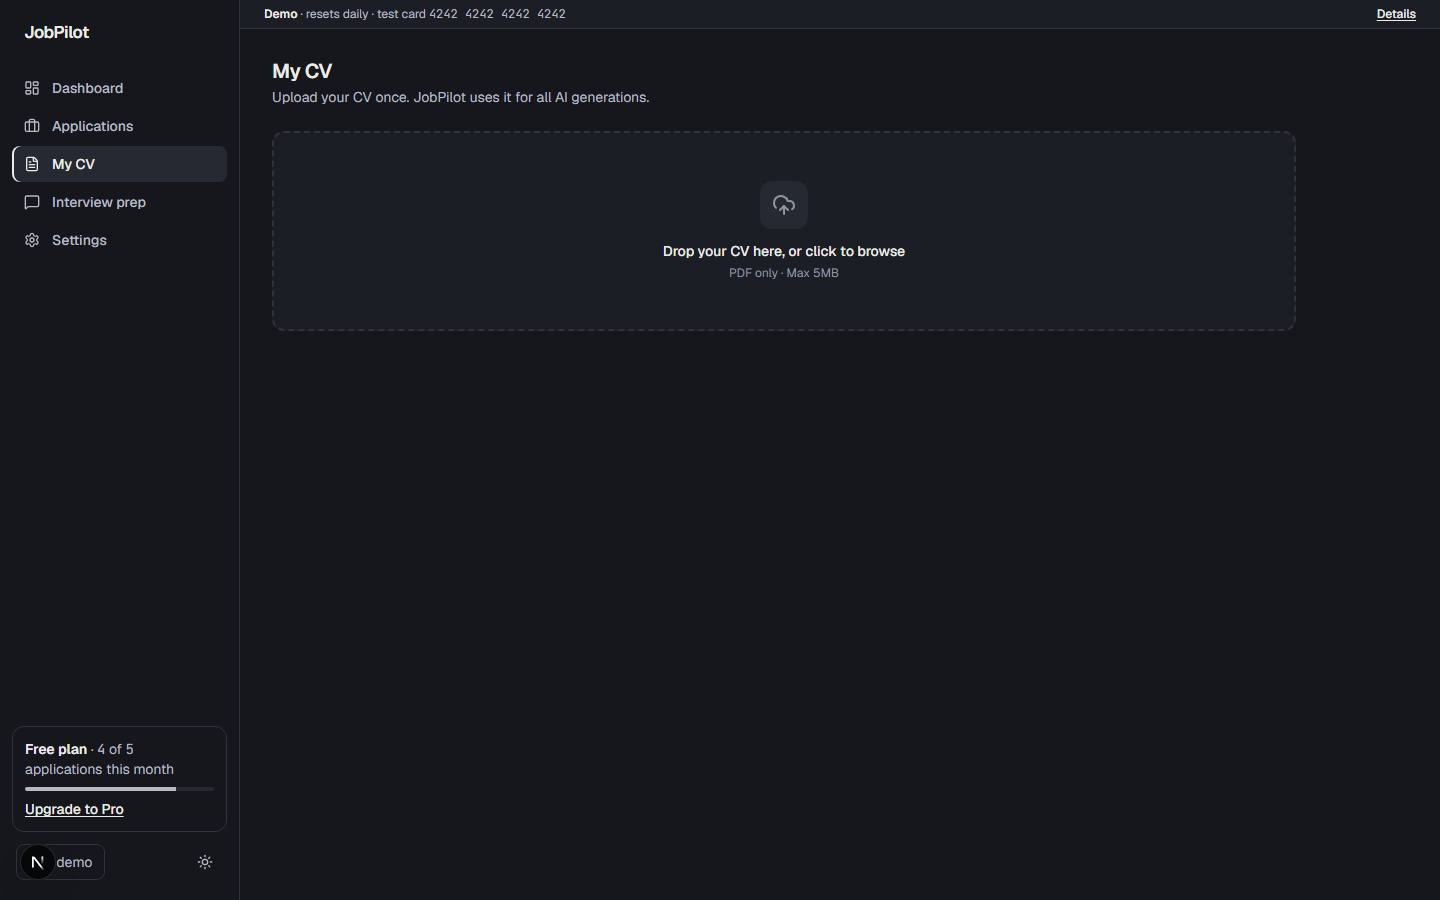
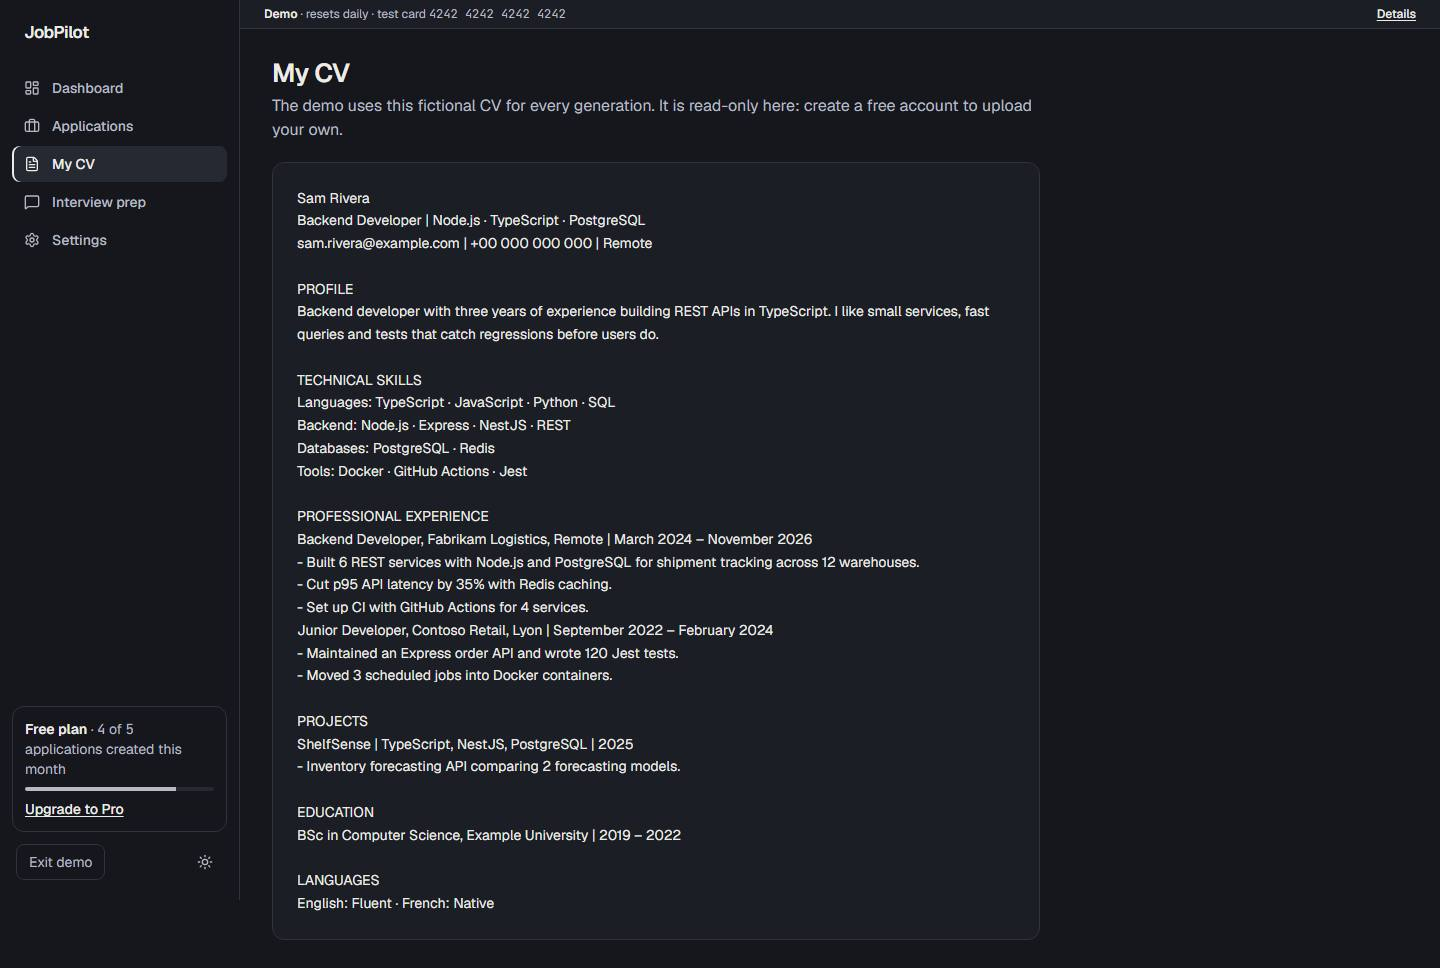
feat(design): My CV
In the demo, My CV shows the fictional CV read-only (GET /api/cv returns
demo: true, the text and no file) instead of an upload zone that the API
refuses. Neutral PDF/text toggle, loader and progress bar; page title on the
new type scale.

diff --git a/src/app/(app)/my-cv/page.tsx b/src/app/(app)/my-cv/page.tsx
@@ -35,6 +35,8 @@ export default function MyCvPage() {
   const [cvData, setCvData] = useState<CvData | null>(null)
   const [loadingCv, setLoadingCv] = useState(true)
   const [showUploadZone, setShowUploadZone] = useState(false)
+  // Demo workspace: the fictional CV, read-only (no upload, no file).
+  const [demoCvText, setDemoCvText] = useState<string | null>(null)
 
   useEffect(() => {
     fetch('/api/cv')
@@ -43,6 +45,7 @@ export default function MyCvPage() {
           r.json() as Promise<{
             data?: {
               hasCv: boolean
+              demo?: boolean
               fileUrl: string | null
               cvText: string | null
               cvTextPreview: string | null
@@ -51,6 +54,10 @@ export default function MyCvPage() {
           }>
       )
       .then(j => {
+        if (j.data?.demo) {
+          setDemoCvText(j.data.cvText ?? '')
+          return
+        }
         if (j.data?.hasCv && j.data.fileUrl) {
           setCvData({
             fileUrl: j.data.fileUrl,
@@ -77,10 +84,12 @@ export default function MyCvPage() {
     )
   }
 
+  if (demoCvText !== null) return <DemoCvView text={demoCvText} />
+
   return (
     <div className="max-w-5xl space-y-6">
       <div>
-        <h1 className="text-xl font-semibold text-[hsl(var(--text-primary))]">My CV</h1>
+        <h1 className="text-[26px] font-semibold leading-tight tracking-tight text-[hsl(var(--text-primary))]">My CV</h1>
         <p className="text-sm text-[hsl(var(--text-secondary))] mt-0.5">
           Upload your CV once. JobPilot uses it for all AI generations.
         </p>
@@ -97,6 +106,27 @@ export default function MyCvPage() {
           onCancel={cvData ? () => setShowUploadZone(false) : undefined}
         />
       )}
+    </div>
+  )
+}
+
+// ── Demo CV (read-only) ──────────────────────────────────────────────────────
+
+function DemoCvView({ text }: { text: string }) {
+  return (
+    <div className="max-w-3xl space-y-5">
+      <div>
+        <h1 className="text-[26px] font-semibold leading-tight tracking-tight text-[hsl(var(--text-primary))]">My CV</h1>
+        <p className="mt-1 text-[hsl(var(--text-secondary))]">
+          The demo uses this fictional CV for every generation. It is read-only here: create a free account to upload your own.
+        </p>
+      </div>
+      <article
+        aria-label="Fictional CV of the demo"
+        className="rounded-xl border border-[hsl(var(--border-default))] bg-[hsl(var(--bg-surface))] p-5 md:p-6"
+      >
+        <pre className="whitespace-pre-wrap font-sans text-sm leading-relaxed text-[hsl(var(--text-primary))] [overflow-wrap:anywhere]">{text}</pre>
+      </article>
     </div>
   )
 }
@@ -188,7 +218,7 @@ function ExistingCvView({
               onClick={() => setActiveTab('pdf')}
               className={`flex items-center gap-1.5 px-3 py-1 rounded-md font-medium transition-colors cursor-pointer ${
                 activeTab === 'pdf'
-                  ? 'bg-amber-500 text-black font-semibold shadow-xs'
+                  ? 'bg-[hsl(var(--bg-surface-raised))] text-[hsl(var(--text-primary))] font-semibold'
                   : 'text-[hsl(var(--text-muted))] hover:text-[hsl(var(--text-primary))]'
               }`}
             >
@@ -200,7 +230,7 @@ function ExistingCvView({
               onClick={() => setActiveTab('text')}
               className={`flex items-center gap-1.5 px-3 py-1 rounded-md font-medium transition-colors cursor-pointer ${
                 activeTab === 'text'
-                  ? 'bg-amber-500 text-black font-semibold shadow-xs'
+                  ? 'bg-[hsl(var(--bg-surface-raised))] text-[hsl(var(--text-primary))] font-semibold'
                   : 'text-[hsl(var(--text-muted))] hover:text-[hsl(var(--text-primary))]'
               }`}
             >
@@ -330,7 +360,7 @@ function UploadZone({ onUploaded, onCancel }: { onUploaded: (data: CvData) => vo
         className={`
           relative rounded-xl border-2 border-dashed p-12 flex flex-col items-center gap-3 transition-colors
           ${dragOver
-            ? 'border-amber-500 bg-[hsl(var(--accent-light))]'
+            ? 'border-[hsl(var(--accent-primary))] bg-[hsl(var(--accent-light))]'
             : 'border-[hsl(var(--border-default))] bg-[hsl(var(--bg-surface))] hover:border-[hsl(var(--border-strong))] hover:bg-[hsl(var(--bg-surface-raised))]'
           }
           ${uploading ? 'cursor-wait' : 'cursor-pointer'}
@@ -347,11 +377,11 @@ function UploadZone({ onUploaded, onCancel }: { onUploaded: (data: CvData) => vo
 
         {uploading ? (
           <>
-            <Loader2 className="h-8 w-8 animate-spin text-amber-500" />
+            <Loader2 className="h-8 w-8 animate-spin text-[hsl(var(--text-secondary))]" />
             <p className="text-sm text-[hsl(var(--text-secondary))]">Uploading and extracting text…</p>
             <div className="w-48 h-1.5 rounded-full bg-[hsl(var(--bg-surface-raised))] overflow-hidden">
               <div
-                className="h-full bg-amber-500 rounded-full transition-all duration-300"
+                className="h-full bg-[hsl(var(--text-secondary))] rounded-full transition-all duration-300"
                 style={{ width: `${progress}%` }}
               />
             </div>

diff --git a/src/app/api/cv/route.ts b/src/app/api/cv/route.ts
@@ -15,11 +15,14 @@ export async function GET() {
     select: { cvPath: true, cvText: true, updatedAt: true },
   })
 
-  const hasCv = !!user?.cvPath
+  // A demo has a fictional CV text and no file: read-only, nothing to download.
+  const demo = actor?.kind === 'demo'
+  const hasFile = !!user?.cvPath
   return NextResponse.json({
     data: {
-      hasCv,
-      fileUrl: hasCv ? CV_FILE_ROUTE : null,
+      hasCv: hasFile || (demo && !!user?.cvText),
+      demo,
+      fileUrl: hasFile ? CV_FILE_ROUTE : null,
       cvText: user?.cvText ?? null,
       cvTextPreview: user?.cvText ? user.cvText.slice(0, 500) : null,
       updatedAt: user?.updatedAt ?? null,

diff --git a/test/api/demo-isolation.int.test.ts b/test/api/demo-isolation.int.test.ts
@@ -91,6 +91,11 @@ describe('a demo visitor only reaches its own data', () => {
     expect((await dashboard.GET()).status).toBe(200)
   })
 
+  it('its fictional CV is there, read-only: text but no file', async () => {
+    const json = await readJson<{ data: { hasCv: boolean; demo: boolean; fileUrl: string | null; cvText: string } }>(await cv.GET())
+    expect(json.data).toEqual(expect.objectContaining({ hasCv: true, demo: true, fileUrl: null, cvText: SAMPLE_CV }))
+  })
+
   it('cannot upload a CV (403), and has no CV file (404)', async () => {
     const res = await cvUpload.POST(formRequest('/api/cv/upload', new FormData()))
     expect(res.status).toBe(403)
